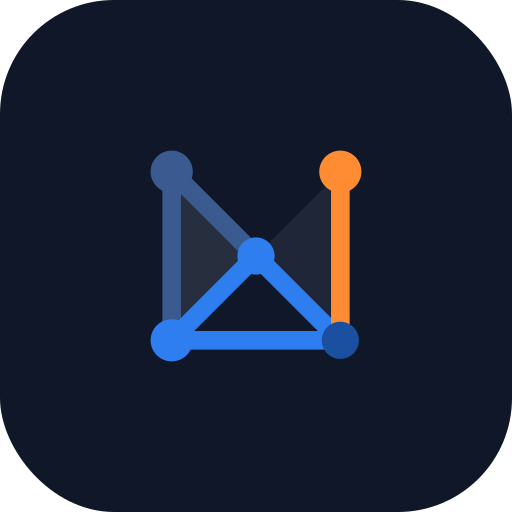
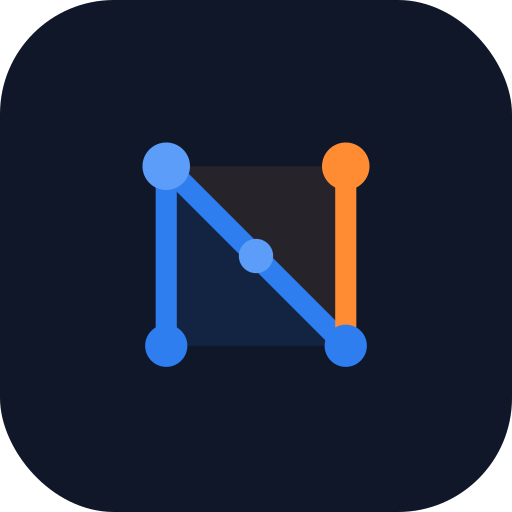
v2.63: el icono pasa a ser una N inequivoca.
La version anterior reproducia la marca literalmente, pero su diagonal subia y bajaba (dos trazos en pico), asi que a tamaño pequeño se leia como un triangulo antes que como una letra. Ahora la diagonal va recta de arriba-izquierda a abajo-derecha, como en una N de verdad: asta izquierda, diagonal, asta derecha.

Se mantiene todo el lenguaje de la marca: nodos en los vertices, el asta derecha en el naranja de acento, el nodo central sobre la diagonal reforzando que esta hecha de conexiones, y las dos mitades tenues a cada lado como guiño a los triangulos del juego.

Comprobado renderizado a 512 y tambien a 96px, que es el tamaño real en la pantalla de inicio: se lee bien en los dos.

Changed region(s): [[0.2812, 0.2812, 0.7188, 0.7188], [0.5625, 0.5312, 0.5938, 0.5625]]

diff --git a/index.html b/index.html
@@ -954,26 +954,26 @@
 // global — funcionaba, pero nada declaraba qué necesitaba cada uno, y una
 // mezcla de versiones en caché podía emparejar mitades incompatibles sin
 // que nada lo detectara.
-import { seedRng, rngNextFrom, rngIntFrom, getRngSeed, getRngState, restoreRngState } from './src/game/random.js?v=2.62';
-import { dist, distSq, segmentPassesOverCircle, pointInTriangle, segmentsIntersect } from './src/game/geometry.js?v=2.62';
+import { seedRng, rngNextFrom, rngIntFrom, getRngSeed, getRngState, restoreRngState } from './src/game/random.js?v=2.63';
+import { dist, distSq, segmentPassesOverCircle, pointInTriangle, segmentsIntersect } from './src/game/geometry.js?v=2.63';
 import { MOVE_REASON_TEXT, edgeKey, edgeExists, connectionCount, areAdjacent,
-         lineIntersectsAny, findNewTriangles, triangleTraps, checkMoveValidity } from './src/game/rules.js?v=2.62';
+         lineIntersectsAny, findNewTriangles, triangleTraps, checkMoveValidity } from './src/game/rules.js?v=2.63';
 import { ADJACENCY_TARGET, generateCirclePositions, buildCandidateGraph,
-         attemptBoardGeneration, chooseAdjacency, finalizeAdjacency } from './src/game/board.js?v=2.62';
+         attemptBoardGeneration, chooseAdjacency, finalizeAdjacency } from './src/game/board.js?v=2.63';
 import { createPlayer, playerById, nextPlayerId, applyAction, hasAnyLegalMove,
-         replayFromLog } from './src/game/engine.js?v=2.62';
+         replayFromLog } from './src/game/engine.js?v=2.63';
 import { STATE_SCHEMA_VERSION, RULES_VERSION, serializeGameState, restoreGameState,
-         migrateGameSnapshot, isValidGameSnapshot } from './src/game/state.js?v=2.62';
-import { AI_LEVELS, setDifficulty, getDifficulty, RIVALES, setRival, getRival } from './src/ai/levels.js?v=2.62';
-import { chooseAIMove, createsScoringReply } from './src/ai/ai.js?v=2.62';
-import { saveGame, loadSavedGame, clearSavedGame, hasSavedGame } from './src/platform/storage.js?v=2.62';
+         migrateGameSnapshot, isValidGameSnapshot } from './src/game/state.js?v=2.63';
+import { AI_LEVELS, setDifficulty, getDifficulty, RIVALES, setRival, getRival } from './src/ai/levels.js?v=2.63';
+import { chooseAIMove, createsScoringReply } from './src/ai/ai.js?v=2.63';
+import { saveGame, loadSavedGame, clearSavedGame, hasSavedGame } from './src/platform/storage.js?v=2.63';
 // ── Constantes ──────────────────────────────────────────────────────────────
 // Única fuente de la versión visible — antes se escribía a mano en tres
 // sitios (aquí, el panel de info, y el CACHE de sw.js) y se desincronizaban
 // entre sí. sw.js sigue siendo aparte por necesidad (un service worker no
 // puede leer esta constante, vive en otro archivo) — al subir de versión,
 // solo hace falta tocar ESTA línea y la de sw.js, no una tercera copia más.
-const APP_VERSION = 'v2.62';
+const APP_VERSION = 'v2.63';
 
 // Nombre del producto en un solo sitio. Si algún día cambia (NEXTRI u
 // otro), esto evita perseguirlo por cabecera, aviso de rotación, panel de

diff --git a/sw.js b/sw.js
@@ -1,4 +1,4 @@
-const CACHE = 'juego-circulos-v2.62';
+const CACHE = 'juego-circulos-v2.63';
 const ASSETS = [
   '/juego-circulos/',
   '/juego-circulos/index.html',
@@ -6,15 +6,15 @@ const ASSETS = [
   '/juego-circulos/icon.svg',
   '/juego-circulos/icon-192.png',
   '/juego-circulos/icon-512.png',
-  '/juego-circulos/src/game/random.js?v=2.62',
-  '/juego-circulos/src/game/geometry.js?v=2.62',
-  '/juego-circulos/src/game/rules.js?v=2.62',
-  '/juego-circulos/src/game/board.js?v=2.62',
-  '/juego-circulos/src/game/engine.js?v=2.62',
-  '/juego-circulos/src/game/state.js?v=2.62',
-  '/juego-circulos/src/ai/levels.js?v=2.62',
-  '/juego-circulos/src/ai/ai.js?v=2.62',
-  '/juego-circulos/src/platform/storage.js?v=2.62'
+  '/juego-circulos/src/game/random.js?v=2.63',
+  '/juego-circulos/src/game/geometry.js?v=2.63',
+  '/juego-circulos/src/game/rules.js?v=2.63',
+  '/juego-circulos/src/game/board.js?v=2.63',
+  '/juego-circulos/src/game/engine.js?v=2.63',
+  '/juego-circulos/src/game/state.js?v=2.63',
+  '/juego-circulos/src/ai/levels.js?v=2.63',
+  '/juego-circulos/src/ai/ai.js?v=2.63',
+  '/juego-circulos/src/platform/storage.js?v=2.63'
 ];
 
 self.addEventListener('install', e => {

diff --git a/src/game/state.js b/src/game/state.js
@@ -21,9 +21,9 @@
 // descartar en vez de restaurarse mal y a medias.
 // v1 (v2.45-v2.47): sin datos del generador aleatorio.
 // v2 (v2.49+): incluye rng con los tres flujos, y turnPhase.
-import { DIST_EPS, distSq, segmentPassesOverCircle } from './geometry.js?v=2.62';
-import { getRngState, restoreRngState, seedRng } from './random.js?v=2.62';
-import { buildCandidateGraph } from './board.js?v=2.62';
+import { DIST_EPS, distSq, segmentPassesOverCircle } from './geometry.js?v=2.63';
+import { getRngState, restoreRngState, seedRng } from './random.js?v=2.63';
+import { buildCandidateGraph } from './board.js?v=2.63';
 
 export const STATE_SCHEMA_VERSION = 3; // v3: ownerId/playerId estables y registro de eventos
 

diff --git a/src/ai/ai.js b/src/ai/ai.js
@@ -22,9 +22,9 @@
 // petaría al cargar — por eso el registro de window.circlesAI() se quedó
 // allí. Dentro de las funciones no hay problema: se leen al llamarlas.
 
-import { AI_LEVELS } from './levels.js?v=2.62';
-import { checkMoveValidity, findNewTriangles, edgeExists, edgeKey } from '../game/rules.js?v=2.62';
-import { rngNextFrom, rngIntFrom } from '../game/random.js?v=2.62';
+import { AI_LEVELS } from './levels.js?v=2.63';
+import { checkMoveValidity, findNewTriangles, edgeExists, edgeKey } from '../game/rules.js?v=2.63';
+import { rngNextFrom, rngIntFrom } from '../game/random.js?v=2.63';
 
 // isAITurn() vive ahora en index.html: depende del turno actual de la
 // interfaz, no del motor.

diff --git a/src/game/board.js b/src/game/board.js
@@ -16,8 +16,8 @@
 // buildCandidateGraph() DEVUELVE los vecinos en vez de escribir variables
 // globales: quien lo llama decide dónde guardarlos.
 
-import { DIST_EPS, dist, segmentPassesOverCircle } from './geometry.js?v=2.62';
-import { rngNextFrom } from './random.js?v=2.62';
+import { DIST_EPS, dist, segmentPassesOverCircle } from './geometry.js?v=2.63';
+import { rngNextFrom } from './random.js?v=2.63';
 
 export function generateCirclePositions(cfg, minDist) {
   const { count, width, height, circleRadius } = cfg;

diff --git a/src/game/engine.js b/src/game/engine.js
@@ -20,8 +20,8 @@
 //
 // Requiere: rules.js, random.js.
 
-import { checkMoveValidity, findNewTriangles, edgeKey } from './rules.js?v=2.62';
-import { rngIntFrom } from './random.js?v=2.62';
+import { checkMoveValidity, findNewTriangles, edgeKey } from './rules.js?v=2.63';
+import { rngIntFrom } from './random.js?v=2.63';
 
 export function createPlayer(index, { name, isAI = false, userId = null } = {}) {
   const nombre = name || `Jugador ${index + 1}`;

diff --git a/src/platform/storage.js b/src/platform/storage.js
@@ -9,7 +9,7 @@
 // la app no arranque por eso sería mucho peor. Ante cualquier duda:
 // devolver null / no hacer nada, nunca propagar el error.
 
-import { serializeGameState, migrateGameSnapshot, isValidGameSnapshot } from '../game/state.js?v=2.62';
+import { serializeGameState, migrateGameSnapshot, isValidGameSnapshot } from '../game/state.js?v=2.63';
 
 export const SAVE_KEY = 'juego-circulos:partida';
 

diff --git a/src/game/rules.js b/src/game/rules.js
@@ -16,7 +16,7 @@
 // Requiere que geometry.js (segmentsIntersect, pointInTriangle) esté
 // cargado antes.
 
-import { DIST_EPS, distSq, segmentsIntersect, pointInTriangle } from './geometry.js?v=2.62';
+import { DIST_EPS, distSq, segmentsIntersect, pointInTriangle } from './geometry.js?v=2.63';
 
 export const MOVE_REASON_TEXT = {
   'edge-exists': 'Esas dos ya están conectadas',
